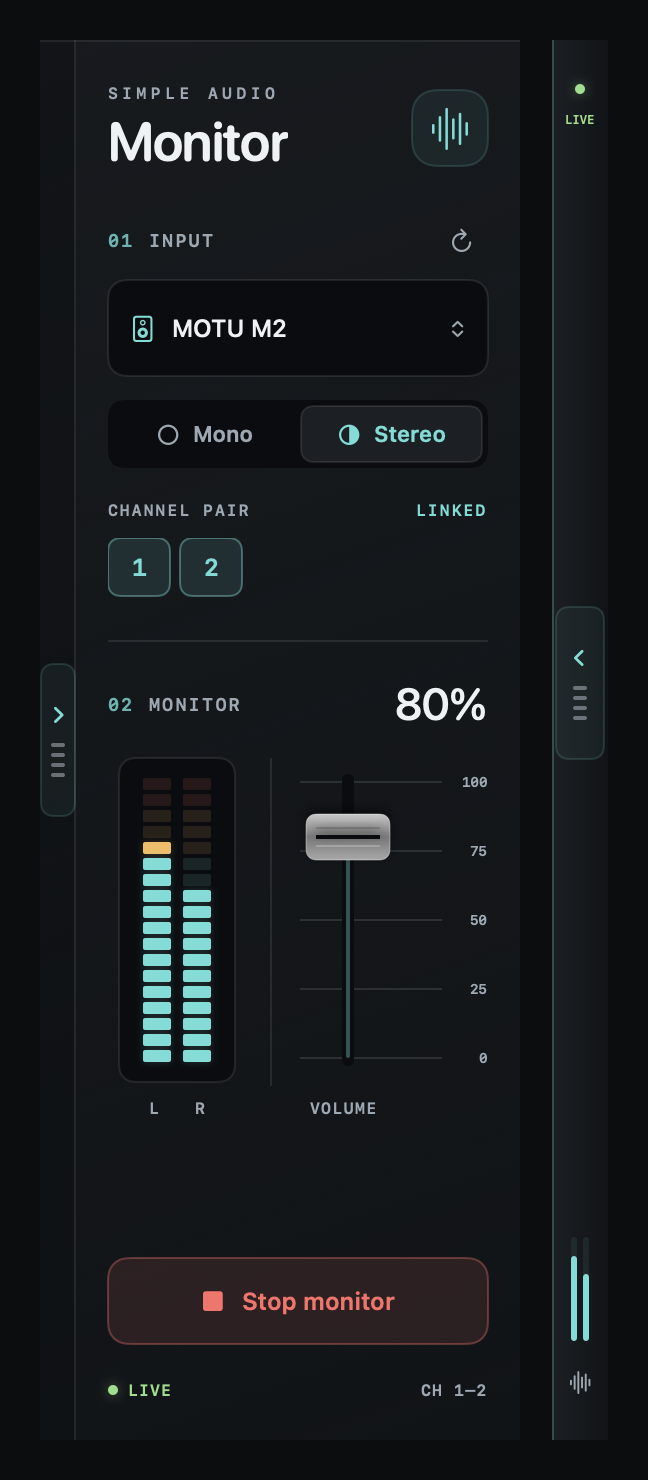
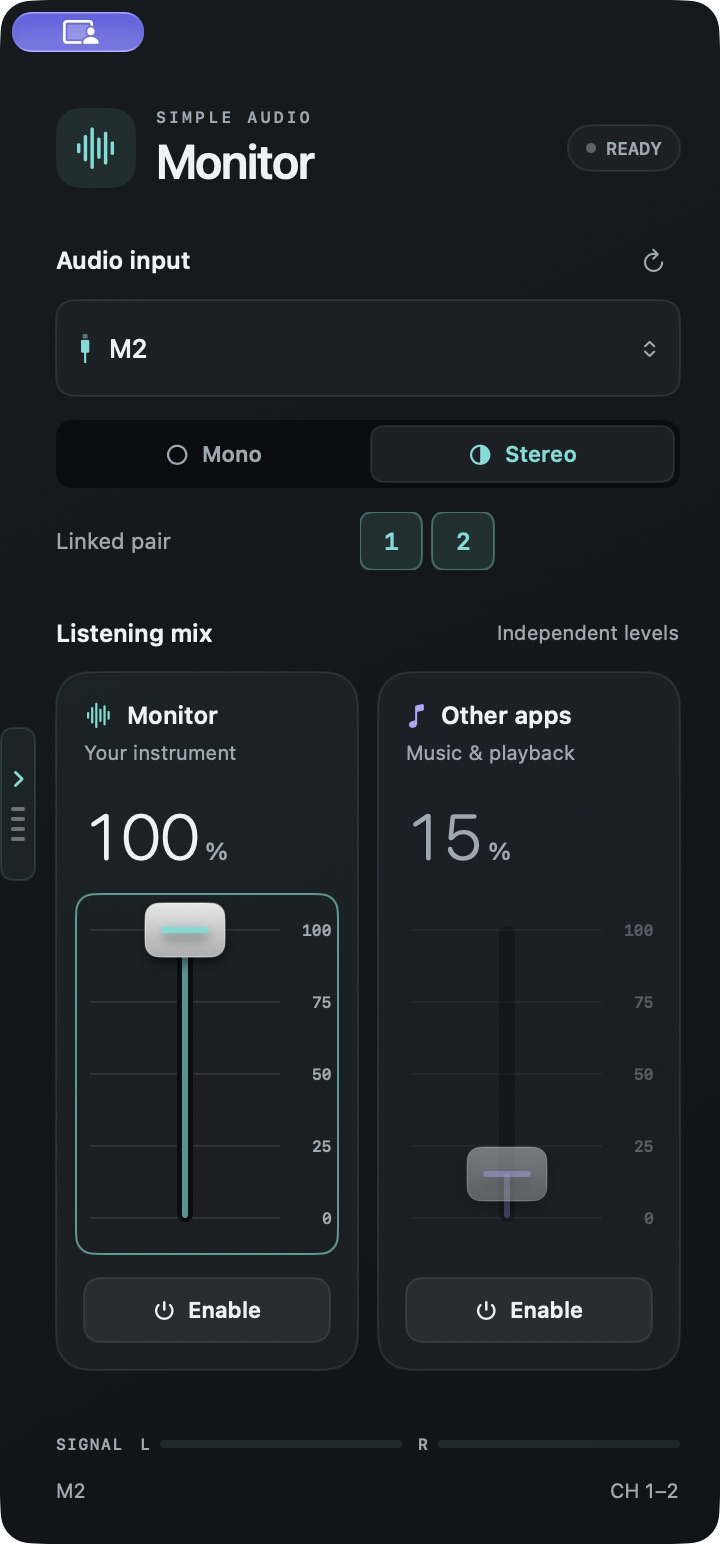
Update README and screenshot for the new mixer interface

diff --git a/README.md b/README.md
@@ -1,36 +1,47 @@
 <p align="center">
-  <img src="Assets/AppIcon.png" width="144" alt="Simple Audio Monitor icon">
+  <img src="Assets/AppIcon.png" width="112" alt="Simple Audio Monitor icon">
 </p>
 
 # Simple Audio Monitor
 
-A compact macOS input monitor with a low-latency direct audio path. It is intended to work like enabling input monitoring on a DAW track, without recording or effects.
-
-## Why
-
-Many musicians—guitarists in particular—connect an electric instrument or a digital pedalboard directly to the input channels of the audio interface they use with their Mac. They then discover that macOS does not automatically route that live input to their speakers or headphones. Without a DAW, amp simulator, or dedicated monitoring app, the result is often silence.
-
-Simple Audio Monitor provides that missing monitoring path: choose the interface input, enable monitoring, and set a comfortable listening level. You can then open any separate audio player, browser, or backing-track app and play along with a song, lesson, or other audio while hearing your instrument at the same time.
+Hear your instrument and play along with your favourite music—without opening a DAW. Simple Audio Monitor is a compact macOS app that routes an audio interface's input to your output and gives you independent volume controls for your instrument and other applications.
 
 ## Interface
 
-<img src="Assets/interface-preview.png" width="324" alt="Redesigned monitor panel with device, stereo channels, meters and volume fader, alongside its compact side handle">
+<p align="center">
+  <img src="Assets/interface-preview.png" width="360" alt="Simple Audio Monitor with audio input selection, turquoise Monitor and violet Other apps faders, individual enable buttons, and stereo signal meters">
+</p>
 
-Expanded and compact interface preview, shown with example device and signal data.
+The current interface, shown in standby with an M2 audio interface selected. **Monitor** controls your instrument; **Other apps** controls music and playback on your current default output. Each panel has its own **Enable** button.
+
+## Get started
+
+1. Connect your instrument or pedalboard to your audio interface and choose the Mac's output device in Sound settings.
+2. Select the interface under **Audio input**. Use the refresh button if you have just connected it.
+3. Choose **Mono** for one input or **Stereo** for an adjacent pair. To change the starting channel, switch to Mono, select the channel, then enable Stereo if needed.
+4. Press **Enable** in the **Monitor** panel and adjust its fader to hear your instrument.
+5. Open a player, browser, or backing-track app. Press **Enable** under **Other apps** to adjust its playback level independently.
+
+Allow microphone access for instrument monitoring and system audio access when enabling other-apps control for the first time. Start with comfortable output levels and use wired headphones for low-latency listening.
 
 ## Features
 
-- Select any Core Audio input device and refresh the device list on demand.
-- Monitor one input channel in mono, or link an adjacent pair as stereo.
-- Control monitoring volume with a mixer-style fader and a clear 0–100% scale; use the arrow keys when the fader is focused for fine adjustments.
-- Independently control other applications on the current default output with a second fader (macOS 14.2+). Press **Enable** in the **Other apps** panel and allow system audio access when prompted; disabling it restores normal playback. The monitor is excluded from this control.
-- Read independent L/R signal meters in the footer.
-- Balance the two sources in separate color-coded mixer panels: turquoise for the instrument, violet for other apps, each with its own enable button.
-- Restore the last device, input mode, channel, and volume automatically at launch.
-- Stop monitoring automatically when the Mac enters sleep, preventing the audio route from resuming unexpectedly.
-- Open docked to the bottom-right corner of the main display.
-- Collapse the 360-point-wide panel to a 28-point side handle with live status and miniature L/R meters; expand it again without interrupting monitoring.
-- Move the panel from its native title bar; fader drags remain dedicated to volume adjustment.
+- **Two independent faders:** turquoise for your instrument, violet for other apps, with 0–100% scales and separate enable buttons.
+- **Mono or stereo monitoring:** select a single input or link adjacent channels.
+- **Live feedback:** a LIVE/READY indicator and independent L/R signal meters.
+- **Keyboard control:** focus a fader and use the arrow keys for 1% adjustments.
+- **Saved preferences:** restore the input device, channel, input mode, and both fader levels at launch. Audio routes start disabled.
+- **Compact mode:** collapse the 360-point-wide panel to a 28-point handle with live status and miniature meters while audio keeps playing.
+- **Desktop placement:** open at the bottom-right corner of the main display and move the panel using its native title bar.
+- **Sleep handling:** stop both audio routes when the Mac enters sleep; enable them again when ready.
+
+## Requirements
+
+- macOS 14.0 or later for instrument monitoring.
+- macOS 14.2 or later for **Other apps** volume control.
+- An audio input device and microphone permission for monitoring.
+- System audio recording permission for other-apps control.
+- A compatible Swift 6 toolchain and macOS SDK to build from source.
 
 ## Build and run
 
@@ -42,12 +53,18 @@ chmod +x make-app.sh
 open ".build/SimpleAudioMonitor.app"
 ```
 
-You can also run the development executable with `swift run`, but using the app bundle is recommended because it includes the macOS microphone permission message and Dock icon.
+The build script accepts additional `swift build` arguments, including `--sdk` when a specific installed SDK is needed.
 
-On the first launch of a newly signed app identity, allow microphone access in macOS. For actual ultra-low latency, set the preferred buffer size and sample rate in **Audio MIDI Setup** for the selected interface, and use wired headphones to avoid acoustic feedback.
+You can also use `swift run` during development. The app bundle is recommended for normal use because it includes the permission descriptions and Dock icon.
 
-## Notes
+## Audio behaviour and permissions
 
-The monitor route has no recording or effects: `input → mixer → output`. The L/R meters analyse the incoming signal and apply the fader level for display; they do not account for later system-volume changes or processing outside the app.
+The instrument follows a short `input → mixer → output` path with no recording or effects. Its fader adjusts only the monitored signal. The L/R meters show the input level scaled by that fader; they do not measure hardware volume or later system processing. Actual latency depends on your interface, driver, buffer configuration, and output device.
 
-Other-apps control uses a private Core Audio process tap and aggregate device; it never changes the system output selection or hardware volume. Only apps playing on the default output's first stream are controlled. Apps explicitly routed to a different output remain independent. The monitor keeps its original audio path. System audio permission is separate from microphone permission. Other-apps control starts disabled and stops on sleep, output changes, or app exit; enable it again after changing output. Its fader level is saved, but capture is never started automatically. If capture permission is denied, enable it in **System Settings → Privacy & Security → Screen & System Audio Recording** and try again. Hardware and system volume still affect the final mix.
+Other-apps control uses a private Core Audio process tap and aggregate device to play captured audio at the chosen level. It excludes Simple Audio Monitor, so the instrument remains independently adjustable. Disabling **Other apps** restores normal playback. The app does not change the selected system output or hardware volume.
+
+Only applications playing through the current default output's first stream are controlled. Applications explicitly routed to another output remain independent. Hardware and system volume still affect the final mix.
+
+Other-apps control stops when the output device or its sample rate changes. Enable it again to use the new output. Both routes also stop on app exit, and neither starts automatically at launch.
+
+If access is denied, check **System Settings → Privacy & Security → Microphone** for instrument monitoring, or **Screen & System Audio Recording** for other-apps control, then try enabling the corresponding panel again. Permission labels may vary with the macOS version.
